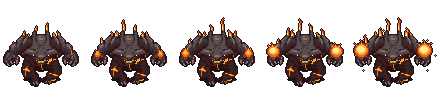
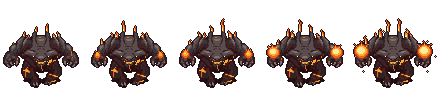
Version 6: grafik under arbete (eldkungen, fiender, vapen)
Claude-Session: https://claude.ai/code/session_01MJjn4zRGf5KuzNecPuFoZ6

diff --git a/retrofps/tools/props4/make.py b/retrofps/tools/props4/make.py
@@ -190,7 +190,7 @@ WIZ_P = [(147, 45, 139), (95, 46, 92), (67, 35, 65), (38, 26, 38)]
 NECRO_MAP = {WIZ_P[0]: (46, 44, 56), WIZ_P[1]: (32, 30, 42), WIZ_P[2]: (24, 22, 32), WIZ_P[3]: (16, 14, 22),
              (240, 154, 83): (176, 186, 160), (128, 74, 30): (54, 124, 58), (71, 40, 13): (30, 74, 36),
              (253, 253, 253): (196, 200, 190), (203, 195, 188): (150, 154, 146), (124, 108, 94): (96, 98, 92),
-             (70, 61, 53): (60, 62, 58), (20, 20, 18): OUT}
+             (70, 61, 53): (60, 62, 58), (181, 108, 48): (40, 36, 44), (20, 20, 18): OUT}
 STAFF0, STAFF1 = (52, 34, 34), (84, 58, 50)
 
 
@@ -916,6 +916,8 @@ def make_boss():
     H_ = src[0].height
     feet = max(np.nonzero(np.array(f)[:, :, 3].any(1))[0].max() for f in (src[0], src[5]))
     ground = lambda f: shift(f, 0, feet - np.nonzero(np.array(f)[:, :, 3].any(1))[0].max())
+    for j in (0, 1, 5):                     # all standing frames share one bottom row
+        src[j] = ground(src[j])
     lift = 14   # the jump is lowered a little so the strips stay compact
     idle = [jd_flames(src[j], i / 6) for i, j in enumerate((0, 0, 1, 1, 1, 0))]
     # attack: crouch, leap, fall with the arms spread, land in a burst of lava and dust
@@ -976,6 +978,10 @@ def make_boss():
         bb = b if bb is None else (min(bb[0], b[0]), min(bb[1], b[1]), max(bb[2], b[2]), max(bb[3], b[3]))
     bb = (bb[0] - 1, bb[1] - 1, bb[2] + 1, feet + 2)
     W_, Hh = bb[2] - bb[0], bb[3] - bb[1]
+    if Hh != W_:                            # square frames (the game splits a strip by its height)
+        n_ = max(W_, Hh)
+        bb = (bb[0] - (n_ - W_) // 2, bb[1] - (n_ - Hh), bb[0] - (n_ - W_) // 2 + n_, bb[3])
+        W_, Hh = n_, n_
 
     def save_b(name, frames):
         out = Image.new('RGBA', (W_ * len(frames), Hh), (0, 0, 0, 0))

diff --git a/retrofps/tools/weapon-frames/README.md b/retrofps/tools/weapon-frames/README.md
@@ -41,3 +41,21 @@ node render-static.mjs side axe,flamer,launcher
 python3 pack.py xframes ../../ axe,flamer,launcher   # packar bara dessa, övriga poster i js/weapons.js lämnas orörda
 python3 pack.py pick ../../ axe,flamer,launcher      # pick_<vapen>.png ur sidovyerna
 ```
+
+Version 6: spikgeväret (`nailgun`), blixtstaven (`staff`) och långbågen (`bow`).
+Spikgeväret är hopbyggt i `static-defs.json` (`parts`): kroppen är Guns&Explosives `Pipe_Bomb` (utsträckt och mörkt tonad),
+fyra pipor, mässingsringar och en kopparskena är enkla former; rekylen är tre korta rutor. Staven är KayKit `staff_B` (CC0) i
+närstridsläget `melee`: `split` lyfter ut kristallen ur modellen efter texturfärgen och `glow` per pose gör den självlysande
+(1) eller vitblå (2) och förstorar den (`scale`) när staven avfyras; mynningen är kristallen. Bågen är KayKit `bow_A` med
+`bow`: strängen (två tunna cylindrar till nockpunkten) och pilen `arrow_A` byggs i `static.html` och spänns med `draw` (0–1).
+Bågen har tre lägen: `idle` (avspänd med pil), `fire` (släppt, strängen dallrar, ingen pil) och `draw` i `melee.extra`
+(fyra rutor från avspänd till fullt spänd, `durs.draw` anger längden). I `js/weapons.js` blir det
+`states: {idle:[0], fire:[1..4], draw:[5..8]}` och `dur: {fire, draw}`; mynningen för `fire` är pilspetsen i vilobilden.
+`clipBack` skär bort vapnets bakre del med ett klipplan och `"tex": "./..."` pekar på en egen textur i den här mappen.
+
+```bash
+node render-static.mjs fp nailgun,staff,bow
+node render-static.mjs side nailgun,staff,bow
+python3 pack.py xframes ../../ nailgun,staff,bow   # övriga poster i js/weapons.js lämnas orörda
+python3 pack.py pick ../../ nailgun,staff,bow      # bågens upplockningsbild får en ritad sträng
+```
